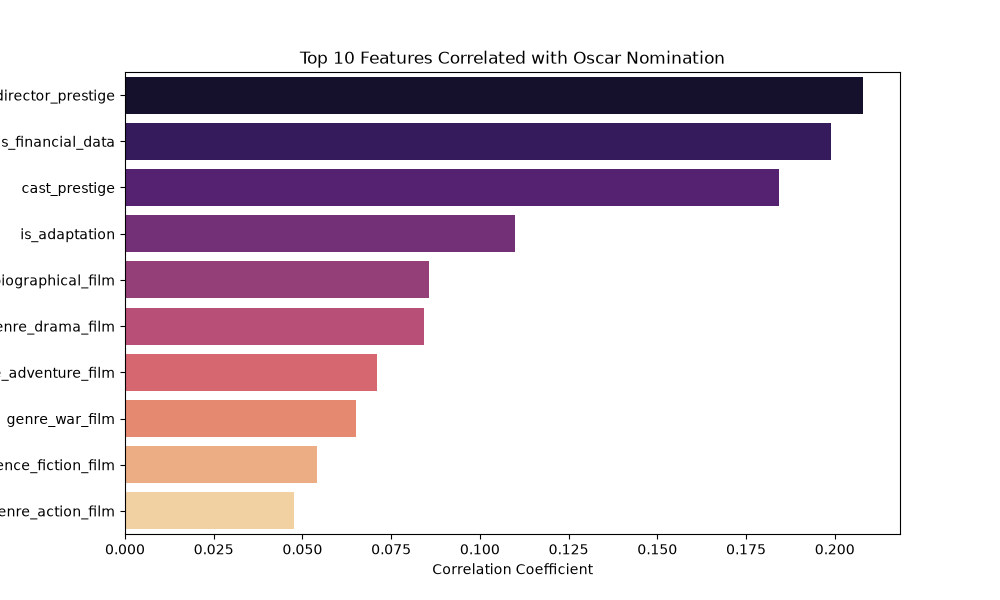
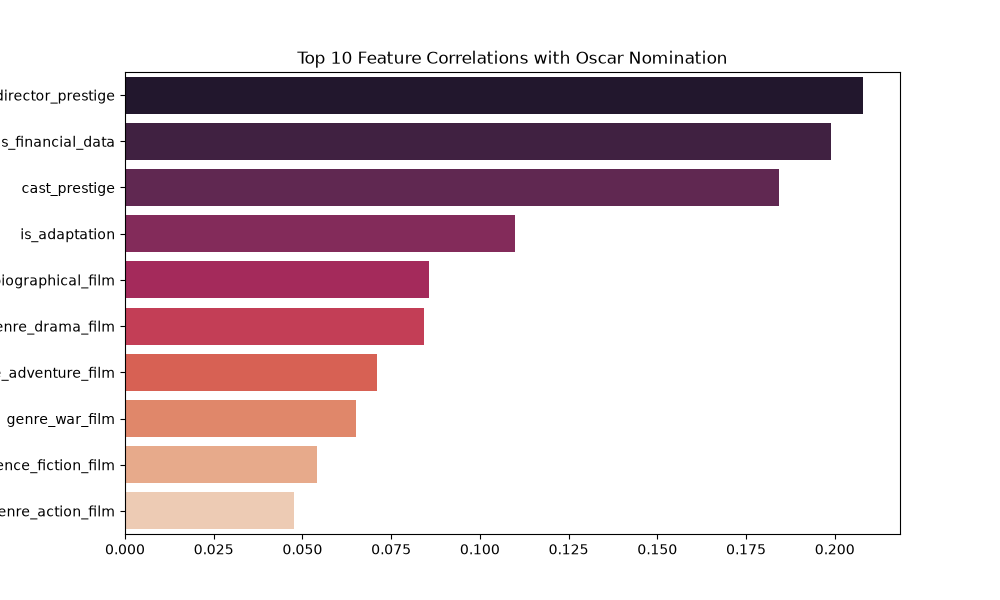
more advanced analysis

Changed region(s): [[0.124, 0.18, 0.837, 0.66], [0.279, 0.09, 0.744, 0.12], [0.434, 0.93, 0.589, 0.96]]

diff --git a/07_run_analysis.py b/07_run_analysis.py
@@ -22,62 +22,107 @@ def analyze():
     noms = df['target_oscar_nom'].sum()
     print(f"Total Movies: {total} | Oscar Nominated: {noms} ({noms/total*100:.2f}%)")
     
-    # 2. Financial Data Impact
+    # --- BOOLEAN FEATURES ANALYSIS ---
+    
+    # A. Financial Data Flag
     if 'has_financial_data' in df.columns:
+        print("\n--- Boolean Feature: Financial Data Availability ---")
         fin_impact = df.groupby('has_financial_data')['target_oscar_nom'].mean() * 100
-        print("\nOscar Nomination Rate based on Financial Data Availability:")
-        print(f" - No Financial Data: {fin_impact.get(0, 0):.2f}%")
-        print(f" - Has Financial Data: {fin_impact.get(1, 0):.2f}%")
+        print(fin_impact)
         
-        # Plot Financial Impact
         plt.figure(figsize=(8, 6))
         sns.barplot(x=fin_impact.index, y=fin_impact.values, hue=fin_impact.index, palette='viridis', legend=False)
-        plt.title('Oscar Nomination Rate by Financial Data Availability')
+        plt.title('Nomination Rate by Financial Data Availability')
         plt.ylabel('Nomination Rate (%)')
-        plt.xlabel('Has Financial Data (0=No, 1=Yes)')
-        plt.savefig(f"{PLOT_DIR}/financial_impact.png")
+        plt.savefig(f"{PLOT_DIR}/bool_financial_data.png")
         plt.close()
 
-    # 3. Correlations
+    # B. Adaptation Flag
+    if 'is_adaptation' in df.columns:
+        print("\n--- Boolean Feature: Is Adaptation ---")
+        adapt_impact = df.groupby('is_adaptation')['target_oscar_nom'].mean() * 100
+        print(adapt_impact)
+        
+        plt.figure(figsize=(8, 6))
+        sns.barplot(x=adapt_impact.index, y=adapt_impact.values, hue=adapt_impact.index, palette='coolwarm', legend=False)
+        plt.title('Nomination Rate by Adaptation Status')
+        plt.ylabel('Nomination Rate (%)')
+        plt.savefig(f"{PLOT_DIR}/bool_is_adaptation.png")
+        plt.close()
+
+    # --- CATEGORICAL FEATURES ANALYSIS ---
+
+    # C. Production Company
+    print("\n--- Categorical Feature: Production Company ---")
+    top_studios = df['production_company'].value_counts().head(15).index
+    studio_stats = df[df['production_company'].isin(top_studios)].groupby('production_company')['target_oscar_nom'].mean() * 100
+    studio_stats = studio_stats.sort_values(ascending=False)
+    
+    plt.figure(figsize=(12, 8))
+    sns.barplot(x=studio_stats.values, y=studio_stats.index, hue=studio_stats.index, palette='magma', legend=False)
+    plt.title('Nomination Rate by Top 15 Production Companies')
+    plt.xlabel('Nomination Rate (%)')
+    plt.tight_layout()
+    plt.savefig(f"{PLOT_DIR}/cat_production_company.png")
+    plt.close()
+
+    # D. Primary Country
+    print("\n--- Categorical Feature: Primary Country ---")
+    top_countries = df['primary_country'].value_counts().head(15).index
+    country_stats = df[df['primary_country'].isin(top_countries)].groupby('primary_country')['target_oscar_nom'].mean() * 100
+    country_stats = country_stats.sort_values(ascending=False)
+    
+    plt.figure(figsize=(12, 8))
+    sns.barplot(x=country_stats.values, y=country_stats.index, hue=country_stats.index, palette='plasma', legend=False)
+    plt.title('Nomination Rate by Top 15 Countries')
+    plt.xlabel('Nomination Rate (%)')
+    plt.tight_layout()
+    plt.savefig(f"{PLOT_DIR}/cat_primary_country.png")
+    plt.close()
+
+    # E. Original Language
+    print("\n--- Categorical Feature: Original Language ---")
+    top_langs = df['original_language'].value_counts().head(15).index
+    lang_stats = df[df['original_language'].isin(top_langs)].groupby('original_language')['target_oscar_nom'].mean() * 100
+    lang_stats = lang_stats.sort_values(ascending=False)
+    
+    plt.figure(figsize=(12, 8))
+    sns.barplot(x=lang_stats.values, y=lang_stats.index, hue=lang_stats.index, palette='inferno', legend=False)
+    plt.title('Nomination Rate by Top 15 Languages')
+    plt.xlabel('Nomination Rate (%)')
+    plt.tight_layout()
+    plt.savefig(f"{PLOT_DIR}/cat_original_language.png")
+    plt.close()
+
+    # F. Month
+    print("\n--- Categorical Feature: Month ---")
+    month_order = [str(i) for i in range(1, 13)] + ['Unknown_month']
+    monthly = df.groupby('month')['target_oscar_nom'].mean() * 100
+    monthly = monthly.reindex(month_order)
+    
+    plt.figure(figsize=(12, 6))
+    sns.lineplot(x=monthly.index, y=monthly.values, marker='o', color='royalblue')
+    plt.title('Nomination Rate by Release Month')
+    plt.ylabel('Nomination Rate (%)')
+    plt.xticks(rotation=45)
+    plt.grid(True, linestyle='--', alpha=0.7)
+    plt.savefig(f"{PLOT_DIR}/cat_month.png")
+    plt.close()
+
+    # --- TOP CORRELATIONS ---
+    print("\n--- Top Numerical Correlations ---")
     num_df = df.select_dtypes(include=['number'])
     corr = num_df.corr()['target_oscar_nom'].sort_values(ascending=False)
-    
-    print("\nTop Correlations with Oscar Nomination:")
     top_corr = corr.iloc[1:11]
     print(top_corr)
     
-    # Plot Top Correlations
     plt.figure(figsize=(10, 6))
-    sns.barplot(x=top_corr.values, y=top_corr.index, hue=top_corr.index, palette='magma', legend=False)
-    plt.title('Top 10 Features Correlated with Oscar Nomination')
-    plt.xlabel('Correlation Coefficient')
+    sns.barplot(x=top_corr.values, y=top_corr.index, hue=top_corr.index, palette='rocket', legend=False)
+    plt.title('Top 10 Feature Correlations with Oscar Nomination')
     plt.savefig(f"{PLOT_DIR}/top_correlations.png")
     plt.close()
-    
-    # 4. Temporal Analysis (Month)
-    print("\nNomination Rate by Release Month:")
-    # Define month order for plotting
-    month_order = [str(i) for i in range(1, 13)] + ['Unknown_month']
-    
-    # Calculate monthly rates
-    monthly = df.groupby('month')['target_oscar_nom'].mean() * 100
-    
-    # Reindex to ensure order
-    monthly = monthly.reindex(month_order)
-    print(monthly)
-    
-    # Plot Monthly Trends
-    plt.figure(figsize=(12, 6))
-    sns.lineplot(x=monthly.index, y=monthly.values, marker='o', color='royalblue')
-    plt.title('Oscar Nomination Rate by Release Month')
-    plt.ylabel('Nomination Rate (%)')
-    plt.xlabel('Month')
-    plt.xticks(rotation=45)
-    plt.grid(True, linestyle='--', alpha=0.7)
-    plt.savefig(f"{PLOT_DIR}/monthly_trends.png")
-    plt.close()
 
-    print(f"\nGraphs have been saved to the '{PLOT_DIR}' directory.")
+    print(f"\nAll analysis complete. Graphs saved to '{PLOT_DIR}'.")
 
 if __name__ == "__main__":
     analyze()

diff --git a/README.md b/README.md
@@ -44,8 +44,8 @@ Execute these scripts in order to build the dataset from scratch:
 
 ### 7. `07_run_analysis.py`
 - **Goal**: Statistical Validation.
-- **Action**: Calculates correlations and nomination rates specifically for the `final_dataset_with_financial_flag.csv` version. Generates visual plots for financial impact, top correlations, and monthly trends.
-- **Output**: Visualizations in `outputs/plots/`.
+- **Action**: Calculates correlations and nomination rates specifically for the `final_dataset_with_financial_flag.csv` version. Generates visual plots for financial impact, production company performance, top correlations, and monthly trends.
+- **Output**: Visualizations in `outputs/plots/` (including `studio_impact.png`).
 
 ---
 
